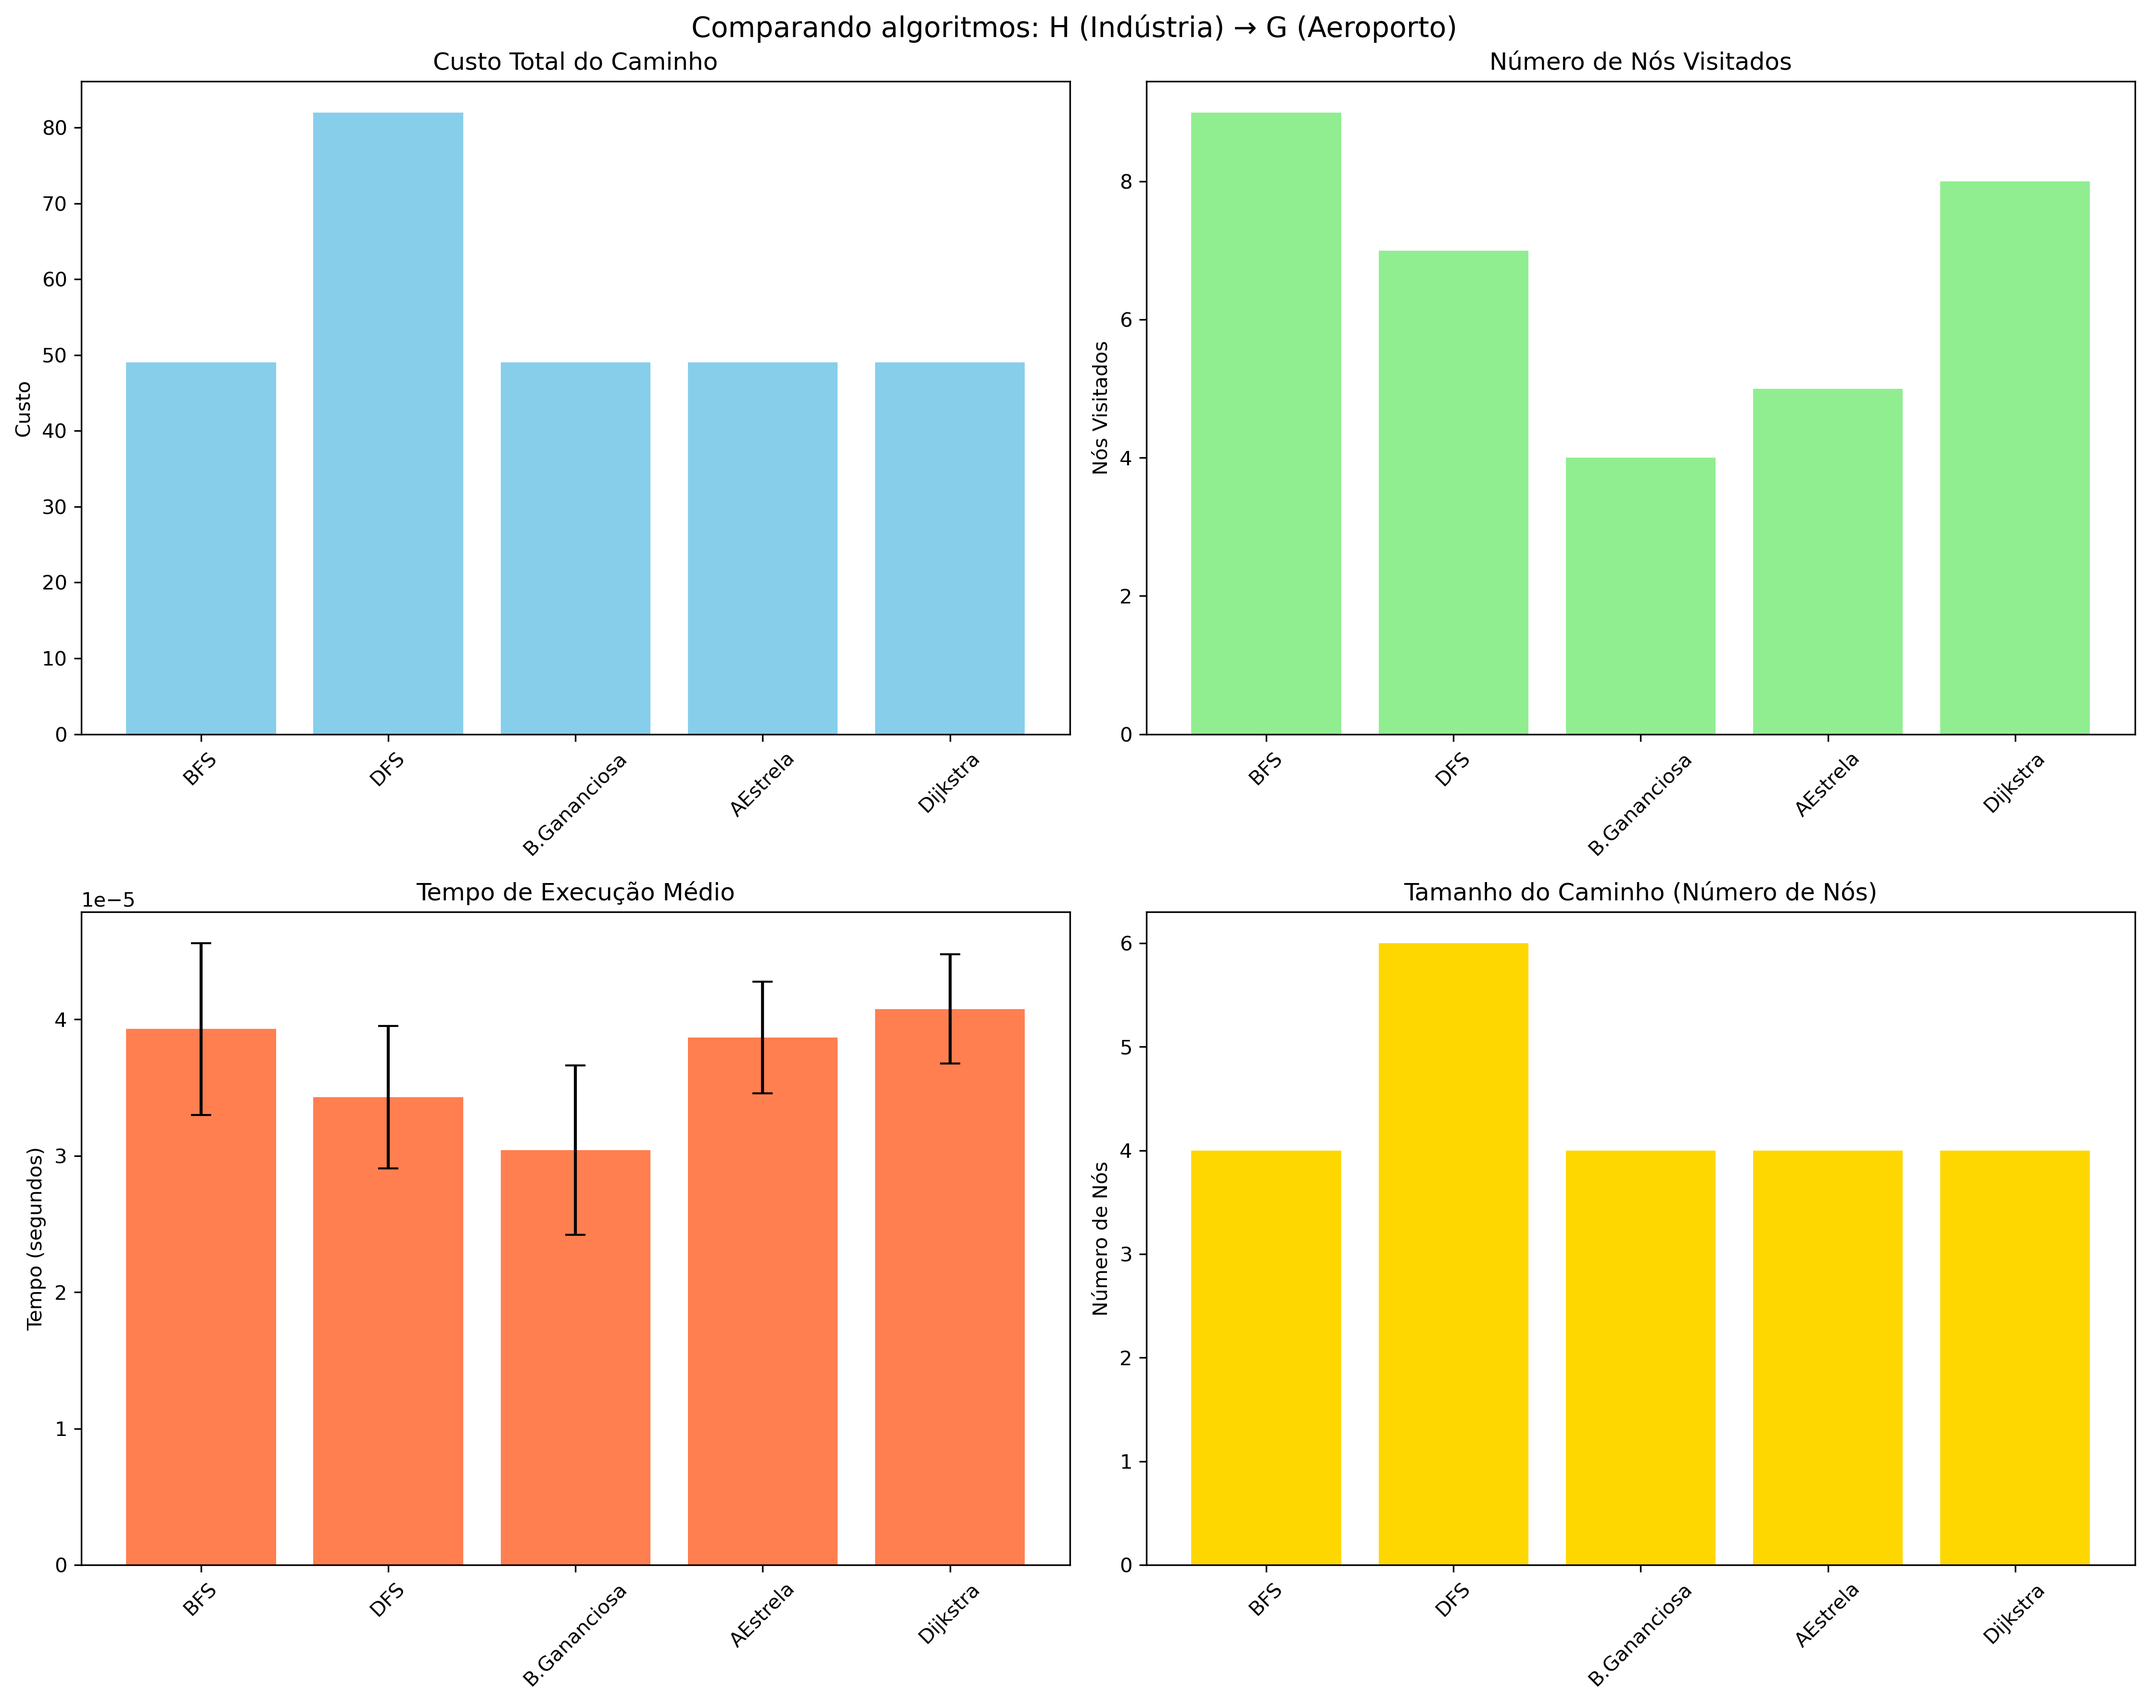
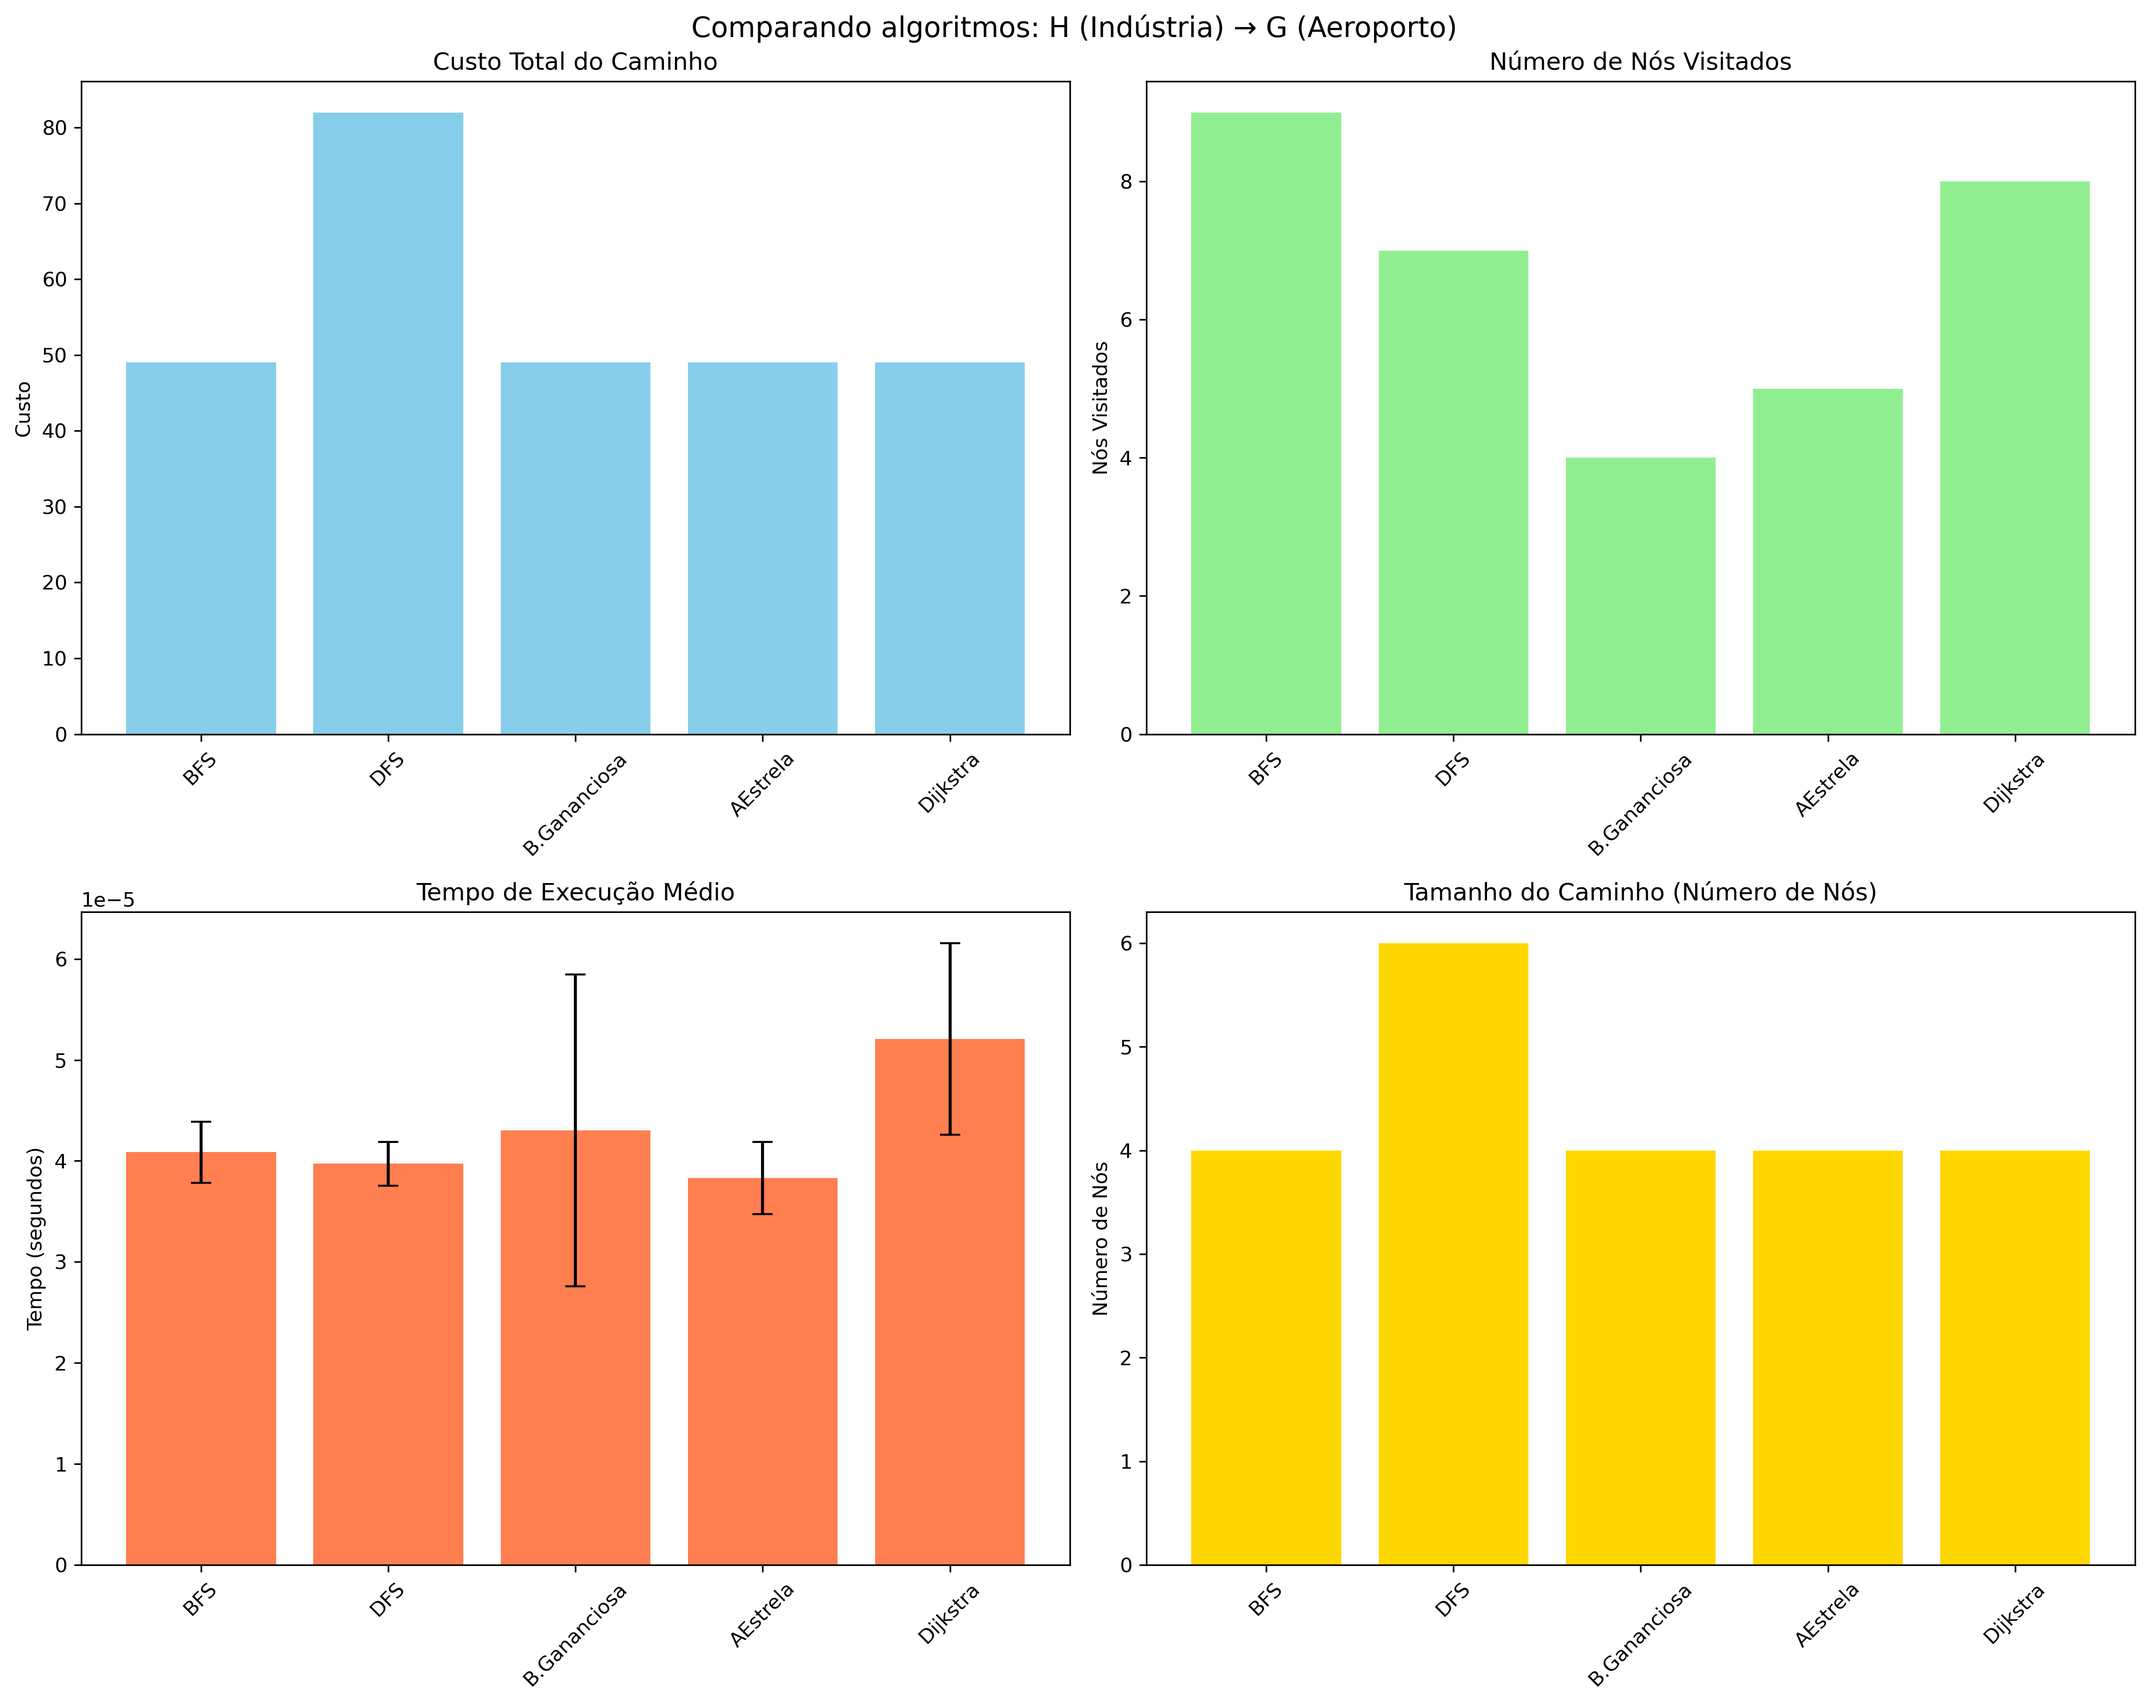
Add files via upload

Changed region(s): [[0.0311, 0.5902, 0.4979, 0.7145]]

diff --git a/grafos/rodar_experimento.py b/grafos/rodar_experimento.py
@@ -72,7 +72,8 @@ def executar_algoritmo(classe_grafo, nome_algoritmo, arquivo_grafo, origem, dest
             'num_nos_visitados': len(grafo.movimentos.visitados),
             'num_iteracoes': estatisticas.get('iteracoes', 0),
             'tempo_execucao': tempo_execucao,
-            'nos_expandidos': estatisticas.get('nos_expandidos', 0)
+            'nos_expandidos': estatisticas.get('nos_expandidos', 0),
+            'consumo_memoria': estatisticas.get('memoria_usada_bytes', 0)
         }
     else:
         return {
@@ -86,7 +87,8 @@ def executar_algoritmo(classe_grafo, nome_algoritmo, arquivo_grafo, origem, dest
             'num_nos_visitados': 0,
             'num_iteracoes': 0,
             'tempo_execucao': tempo_execucao,
-            'nos_expandidos': 0
+            'nos_expandidos': 0,
+            'consumo_memoria': 0
         }
 
 def nome_arquivo_visualizacao(arquivo_grafo, nome_algoritmo, origem, destino):
@@ -128,6 +130,7 @@ def executar_experimento_completo(arquivo_grafo, origem, destino, num_execucoes=
         
         execucoes = []
         tempos = []
+        memorias = []
         
         arq_vis = nome_arquivo_visualizacao(arquivo_grafo, nome_algoritmo, origem, destino)
         if os.path.isfile(arq_vis):
@@ -137,15 +140,22 @@ def executar_experimento_completo(arquivo_grafo, origem, destino, num_execucoes=
             resultado = executar_algoritmo(classe_grafo, nome_algoritmo, arquivo_grafo, origem, destino)
             execucoes.append(resultado)
             tempos.append(resultado['tempo_execucao'])
+            memorias.append(resultado['consumo_memoria'])
         
         # Calcula estatísticas de tempo (que pode variar entre execuções)
         tempo_medio = statistics.mean(tempos)
         tempo_desvio = statistics.stdev(tempos) if len(tempos) > 1 else 0
         
+        # Calcula estatísticas de memória
+        memoria_media = statistics.mean(memorias)
+        memoria_desvio = statistics.stdev(memorias) if len(memorias) > 1 else 0
+        
         # Usa os dados da primeira execução como base (caminho, custo, etc. são determinísticos)
         resultado_base = execucoes[0].copy()
         resultado_base['tempo_execucao_medio'] = tempo_medio
         resultado_base['tempo_desvio_padrao'] = tempo_desvio
+        resultado_base['consumo_memoria_medio'] = memoria_media
+        resultado_base['consumo_memoria_desvio_padrao'] = memoria_desvio
         resultado_base['num_execucoes'] = num_execucoes
         
         resultados.append(resultado_base)
@@ -156,6 +166,7 @@ def executar_experimento_completo(arquivo_grafo, origem, destino, num_execucoes=
             print(f"  Custo: {resultado_base['custo_total']}")
             print(f"  Nós visitados: {resultado_base['num_nos_visitados']}")
             print(f"  Tempo médio: {tempo_medio:.6f}s (±{tempo_desvio:.6f}s)")
+            print(f"  Memória média: {memoria_media:.0f} bytes (±{memoria_desvio:.0f} bytes)")
         else:
             print(f"  Caminho não encontrado")
         print()
@@ -226,7 +237,9 @@ def main():
         
         # Imprime resumo final
         print("\n=== RESUMO DOS RESULTADOS ===")
-        print(df_resultados[['algoritmo', 'encontrou_caminho', 'custo_total', 'num_nos_visitados', 'tempo_execucao_medio']].to_string(index=False))
+        colunas_resumo = ['algoritmo', 'encontrou_caminho', 'custo_total', 'num_nos_visitados', 
+                          'tempo_execucao_medio', 'consumo_memoria_medio']
+        print(df_resultados[colunas_resumo].to_string(index=False))
         
         print(f"\n=== EXPERIMENTO CONCLUÍDO ===")
         print(f"Arquivo CSV: {arquivo_csv}")
